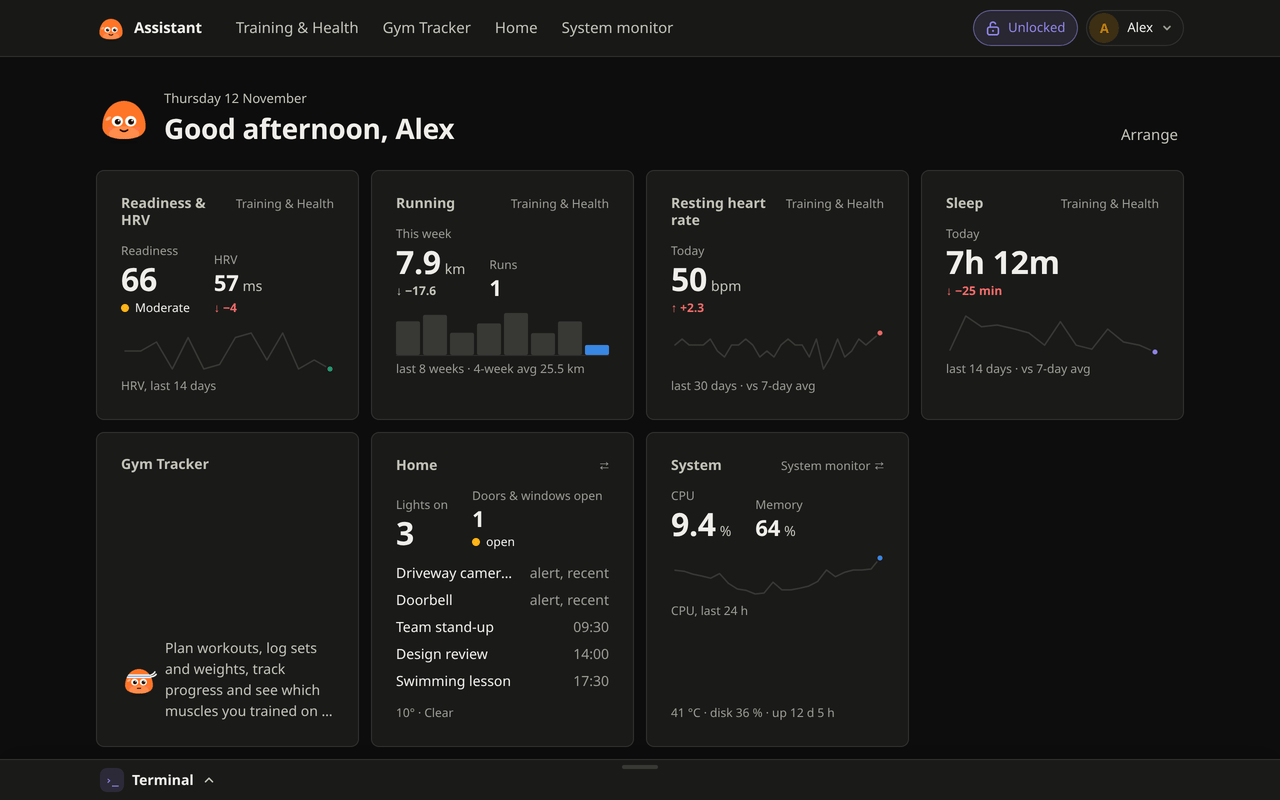
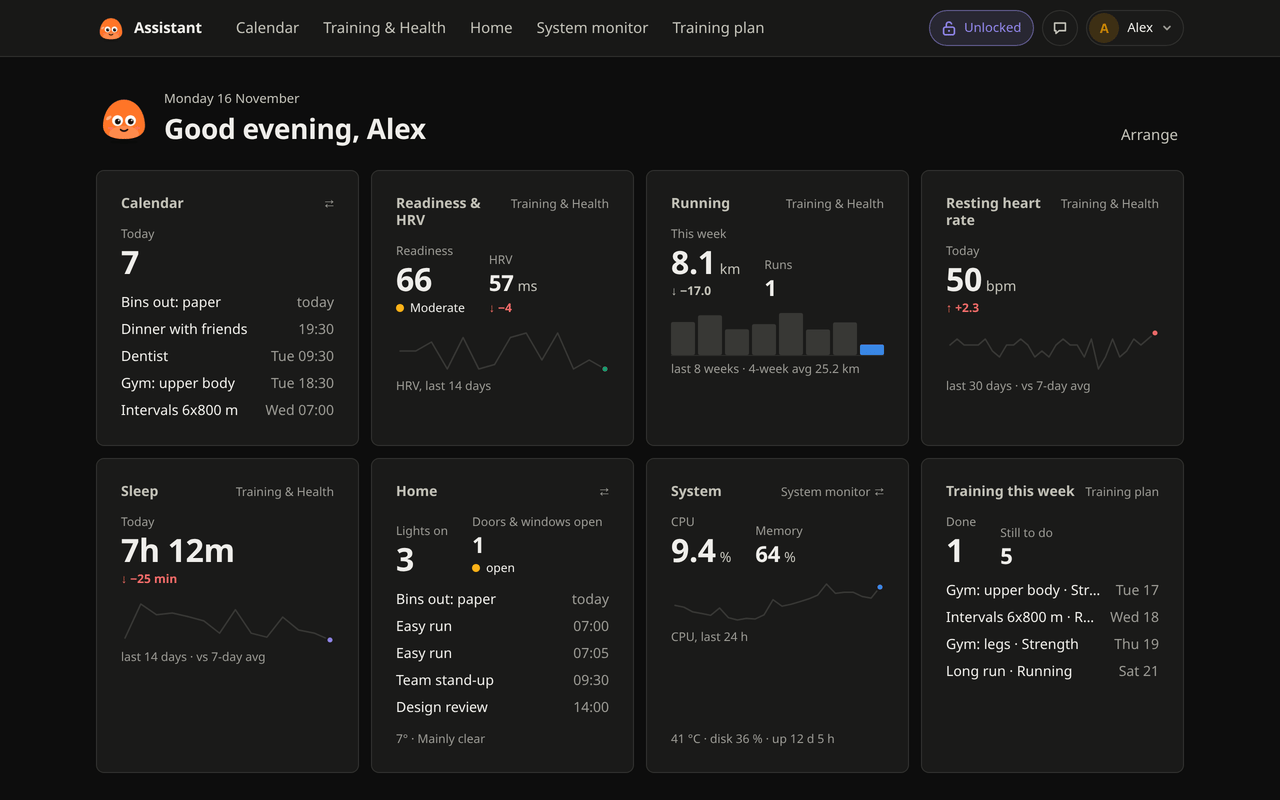
README: new screenshots, the workspace right after setup and with every extension

diff --git a/README.md b/README.md
@@ -10,7 +10,7 @@ Runs on Linux or a Synology NAS with Docker Compose. You reach it over your Tail
 
 [Install](#quick-start) · [Screenshots](#screenshots) · [Extensions](https://github.com/b-niamin/assistant-extensions) · [Docs](#docs)
 
-<img src="docs/screenshots/tour.gif" alt="A tour of the app: dashboard, Training &amp; Health, an activity, the gym tracker, Home, the system monitor, System settings, profile settings and the terminal" width="900" />
+<img src="docs/screenshots/tour.gif" alt="A tour of the app: the empty dashboard after setup, the dashboard with every extension, Training &amp; Health, the training plan, the calendar, Home, the system monitor and the apps in System settings" width="900" />
 
 </div>
 
@@ -57,16 +57,16 @@ Synology steps, installer options and `pingo.sh` commands: [docs/install.md](doc
 
 <table>
   <tr>
-    <td width="50%"><img src="docs/screenshots/dashboard.png" alt="Dashboard with tiles from the extensions" /><p align="center"><b>Dashboard</b>: tiles from the installed extensions</p></td>
-    <td width="50%"><img src="docs/screenshots/home.png" alt="The Home extension: weather, lights, doors and today's calendar" /><p align="center"><b>Home</b>: an extension, Home Assistant data and weather</p></td>
+    <td width="50%"><img src="docs/screenshots/empty.png" alt="The dashboard right after setup: no apps yet" /><p align="center"><b>After setup</b>: an empty workspace, no apps</p></td>
+    <td width="50%"><img src="docs/screenshots/dashboard.png" alt="The dashboard with tiles from the calendar, Training &amp; Health, Home, the system monitor and the training plan" /><p align="center"><b>What you can build</b>: every ready-made extension installed</p></td>
   </tr>
   <tr>
-    <td><img src="docs/screenshots/settings.png" alt="System settings: a sidebar of sections and an overview of updates, backups, MCP on the internet, the terminal, the worker and the apps" /><p align="center"><b>System settings</b>: apps, updates, backups, the worker</p></td>
-    <td><img src="docs/screenshots/terminal.png" alt="The terminal docked at the bottom of a page" /><p align="center"><b>Terminal</b>: a shell with Claude Code and Codex</p></td>
+    <td><img src="docs/screenshots/apps.png" alt="System settings, Apps: the installed extensions with their state and who sees them" /><p align="center"><b>System settings</b>: the installed apps</p></td>
+    <td><img src="docs/screenshots/dashboard-dark.png" alt="The same dashboard in the dark theme" /><p align="center"><b>Dark theme</b></p></td>
   </tr>
 </table>
 
-<p align="center">Light and dark theme (<a href="docs/screenshots/dashboard-dark.png">dark dashboard</a>). Screenshots use demo data.</p>
+<p align="center">Screenshots use demo data. More per extension in <a href="https://github.com/b-niamin/assistant-extensions">assistant-extensions</a>.</p>
 
 ## How it works
 
